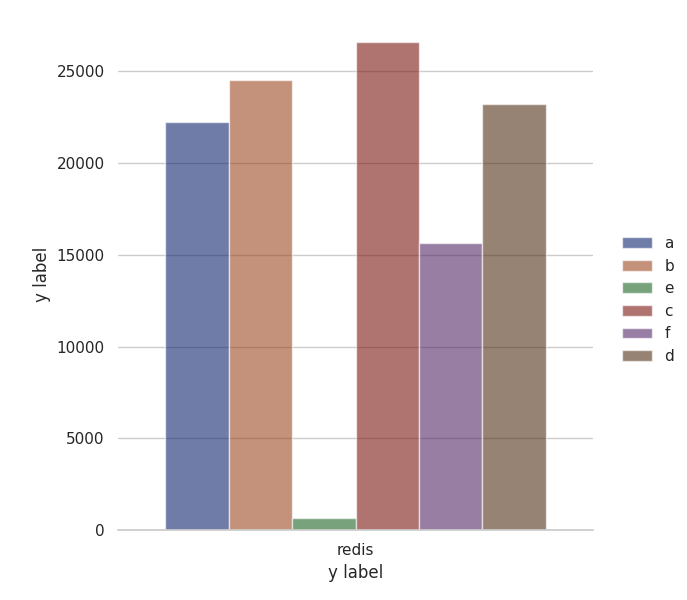
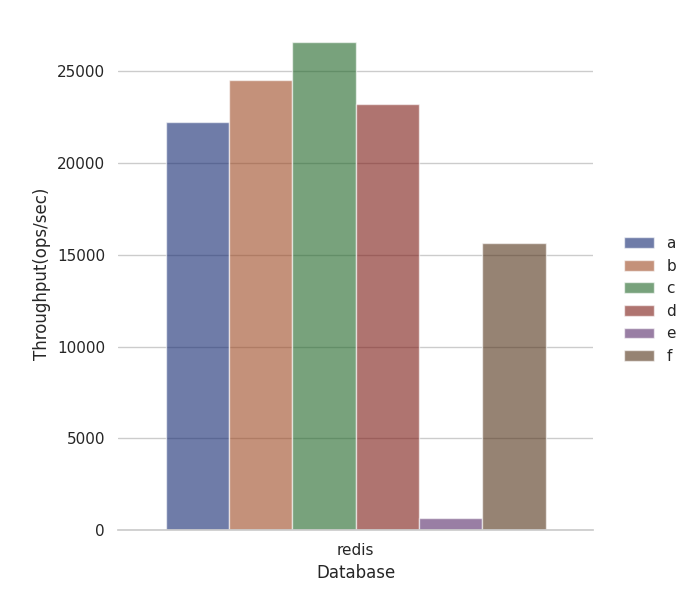
[Pic] Draw some pics.

diff --git a/visualize/visual.py b/visualize/visual.py
@@ -1,3 +1,5 @@
+import os
+import sys
 import seaborn as sns
 import pandas as pd
 import matplotlib.pyplot as plt
@@ -8,26 +10,63 @@ from parser import parse_all, output_path
 pic_path = output_path / 'pic'
 pic_path.mkdir(parents=True, exist_ok=True)
 
-def cat_plot(dataset, x_name, y_name, hue_name, out_name):
+def cat_plot(dataset, x_name, y_name, hue_name, out_name, o='v'):
     sns.set_theme(style="whitegrid")
     
+    workload_order = ['a', 'b', 'c', 'd', 'e', 'f']
+    cluster_order = ['single', 'cluster']
+    if hue_name == 'Workload':
+        hue_order = workload_order
+    elif hue_name == 'Cluster':
+        hue_order = cluster_order
+        order = workload_order
+
     # Draw a nested barplot by species and sex
     g = sns.catplot(
         data=dataset, kind="bar",
-        x=x_name, y=y_name, hue=hue_name,
-        ci="sd", palette="dark", alpha=.6, height=6
+        x=x_name, y=y_name, hue=hue_name, hue_order=hue_order, order=order,
+        ci="sd", palette="dark", alpha=.6, height=6,
+        orient=o,
     )
     g.despine(left=True)
-    g.set_axis_labels("y label", "y label")
+    g.set_axis_labels(x_name, y_name)
     g.legend.set_title("")
     fig_path = pic_path / f"{out_name}.png"
     g.fig.savefig(fig_path) 
+    return fig_path
 
-def single_mode(db=None, wl=None, rc=None, cm=False):
+def bar_plot(dataset, x1_name, x2_name, y_name, hue_name, out_name):
+    sns.set_theme(style="whitegrid")
+
+    # Initialize the matplotlib figure
+    f, ax = plt.subplots(figsize=(6, 15))
+
+    # d = dataset.sort_values("hue_name", ascending=True)
+
+    # Plot the total crashes
+    sns.set_color_codes("pastel")
+    sns.barplot(x=x1_name, y=y_name, data=dataset,
+                label=x1_name, color="b")
+
+    # Plot the crashes where alcohol was involved
+    # sns.set_color_codes("muted")
+    # sns.barplot(x=x2_name, y=y_name, data=dataset,
+    #             label=x2_name, color="b")
+
+    # Add a legend and informative axis label
+    ax.legend(ncol=2, loc="lower right", frameon=True)
+    ax.set(ylabel="y label", xlabel="x label")
+    sns.despine(left=True, bottom=True)
+    
+    fig_path = pic_path / f"{out_name}-bar.png"
+    f.savefig(fig_path) 
+    return fig_path
+
+def draw(db=None, wl=None, rc=None, cm=False, o='v'):
     db = db if db else '*'
     wl = wl if wl else '*'
     rc = rc if rc else '*'
-    mn = 'cluster' if cm else 'single'
+    mn = mn if cm else '*'
     test_name = f'{db}-{wl}-{rc}-{mn}'
     res = parse_all(test_name)
     
@@ -41,10 +80,21 @@ def single_mode(db=None, wl=None, rc=None, cm=False):
         except:
             print(matrics)
 
-    df = pd.DataFrame(data, columns=['db', 'workload', 'count', 'cluster', 'throughput'])
+    if not data:
+        return
+    
+    df = pd.DataFrame(data, columns=['Database', 'Workload', 'Record Count', 'Cluster', 'Throughput(ops/sec)'])
     print(df)
+    
+    if mn != '*':
+        p = cat_plot(df, x_name='Database', y_name='Throughput(ops/sec)', hue_name='Workload', out_name=test_name, o=o)
+    else:
+        # p = bar_plot(df, x1_name='Throughput(ops/sec)', x2_name='', y_name='Workload', hue_name='Workload', out_name=test_name)
+        p = cat_plot(df, x_name='Throughput(ops/sec)', y_name='Workload', hue_name='Cluster', out_name=test_name, o=o)
 
-    cat_plot(df, x_name='db', y_name='throughput', hue_name='workload', out_name=test_name)
+    print(f'output to: {p}')
+    
+
     
 if __name__ == '__main__':
     # Check the matplotlib backend, if the value is 'agg', the `plot.show` function 
@@ -52,5 +102,12 @@ if __name__ == '__main__':
     #
     # import matplotlib
     # print(matplotlib.get_backend())
-    
-    single_mode(db='redis', rc=300000, cm=True)
+    if sys.argv[1] == 'single':
+        draw(rc=int(sys.argv[2]), cm=sys.argv[1])
+    elif sys.argv[1] == 'cluster':
+        draw(rc=int(sys.argv[2]), cm=sys.argv[1])
+    elif sys.argv[1] == 'redis':
+        draw(db='redis', rc=int(sys.argv[2]), o='h')
+    else:
+        print('Usage: [single|cluster|redis|memcached] recordcount')
+        

diff --git a/visualize/parser.py b/visualize/parser.py
@@ -11,7 +11,8 @@ output_path = current_dir.parent / 'out'
 #   res:       map{...}
 def parse_result(test_name: str) -> Tuple[Dict, Dict]:
     try:
-        test_info = re.search(r"^(?P<db>.*?)-(?P<workload>.*?)-(?P<count>.*?)-(?P<cluster>.*?)", test_name)
+        test_info = re.search(r"^(?P<db>.*?)-(?P<workload>.*?)-(?P<count>.*?)-(?P<cluster>.*?)$", test_name)
+        # print(test_name, test_info)
     except:
         print(f"invalid test name {test_name}")
         exit(-1)
